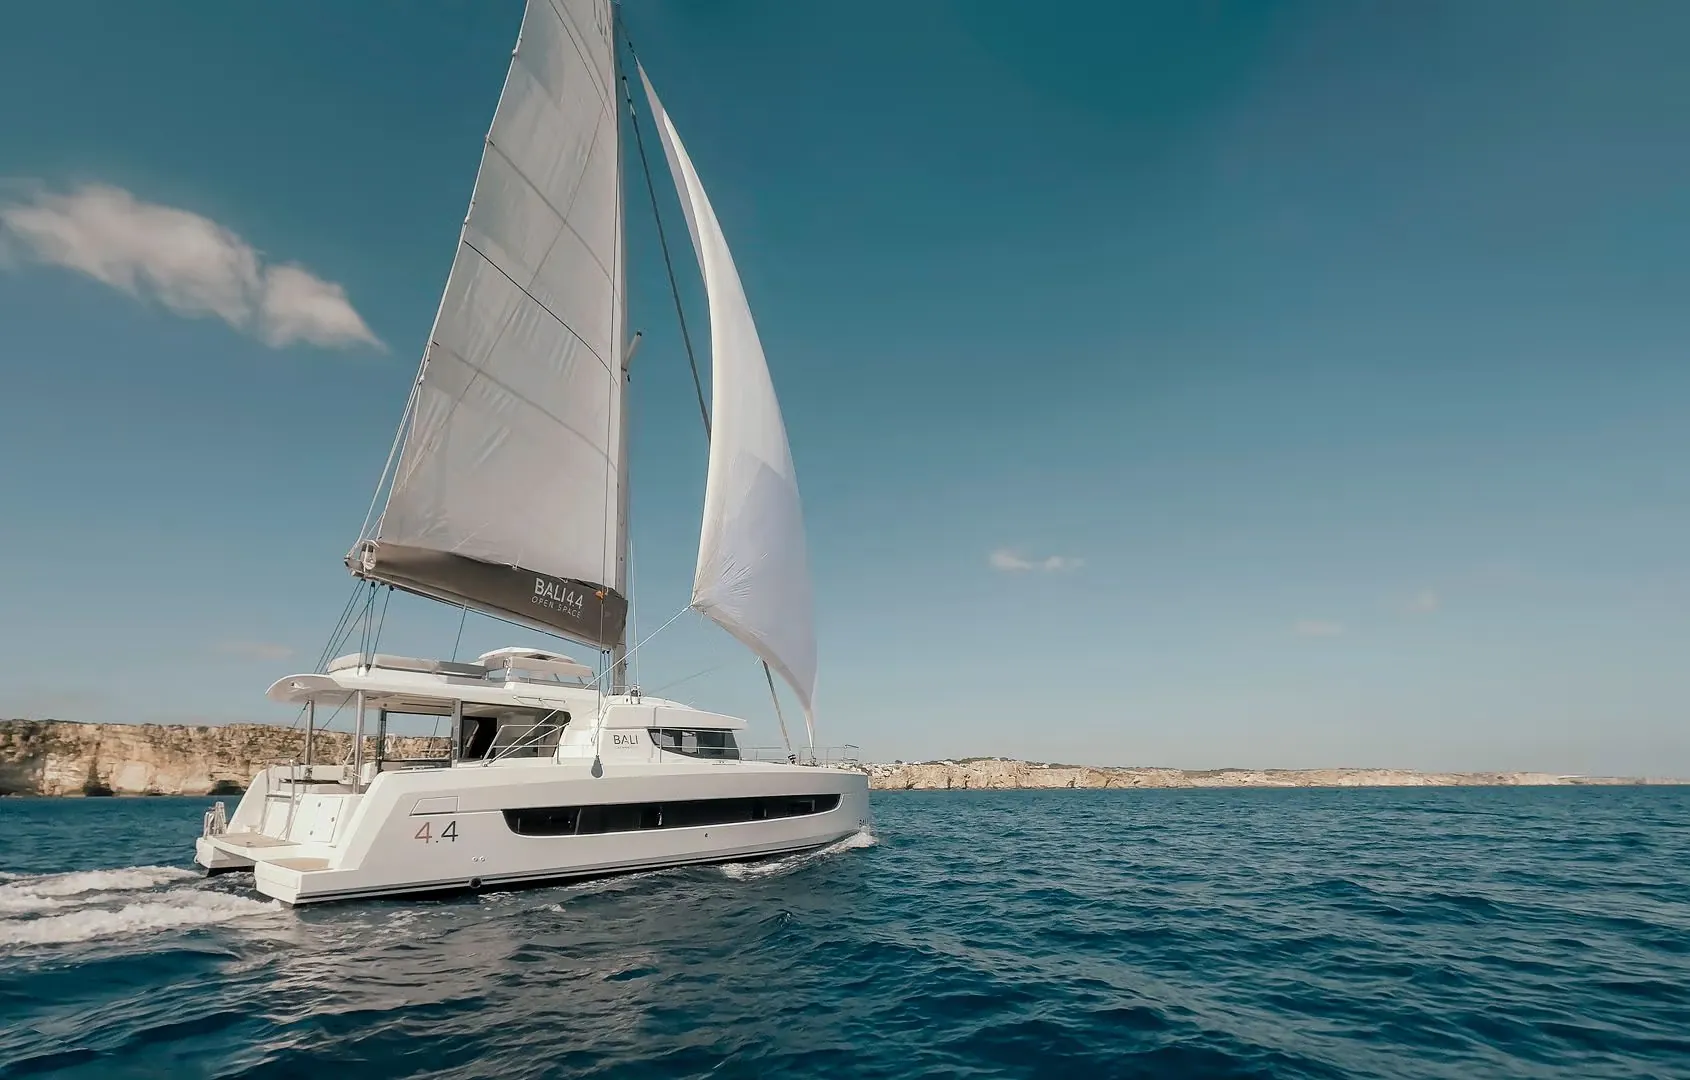
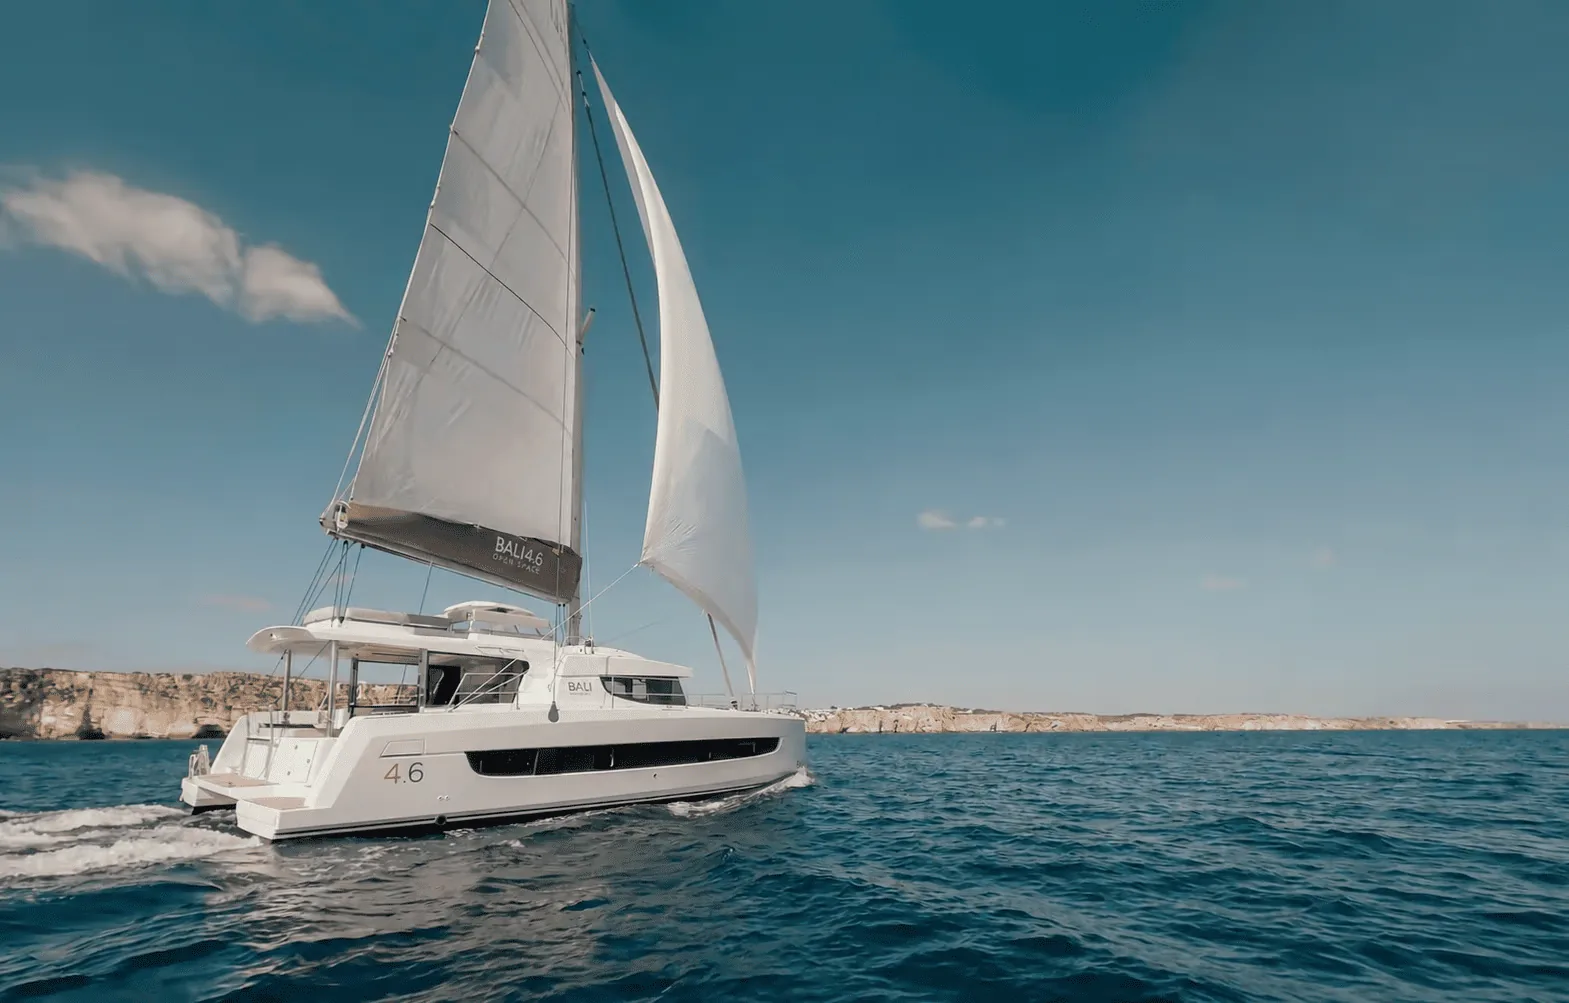
Update sailing photos from new source images
Claude-Session: https://claude.ai/code/session_018mbJLiVDn68MLWXxLmAFci

diff --git a/index.html b/index.html
@@ -163,7 +163,7 @@
         </div>
       </article>
       <article class="plan" style="--i:1">
-        <div class="plan__media"><img src="assets/img/sail-coast.webp" alt="Bali catamaran sailing along limestone cliffs" loading="lazy" width="1690" height="1080"></div>
+        <div class="plan__media"><img src="assets/img/sail-coast.webp" alt="Bali catamaran sailing along limestone cliffs" loading="lazy" width="1569" height="1003"></div>
         <div class="plan__body">
           <p class="plan__tag" data-i18n="plan2.tag">7 nights · June to September</p>
           <h2 class="h2" data-i18n="plan2.h">Mallorca Week</h2>
